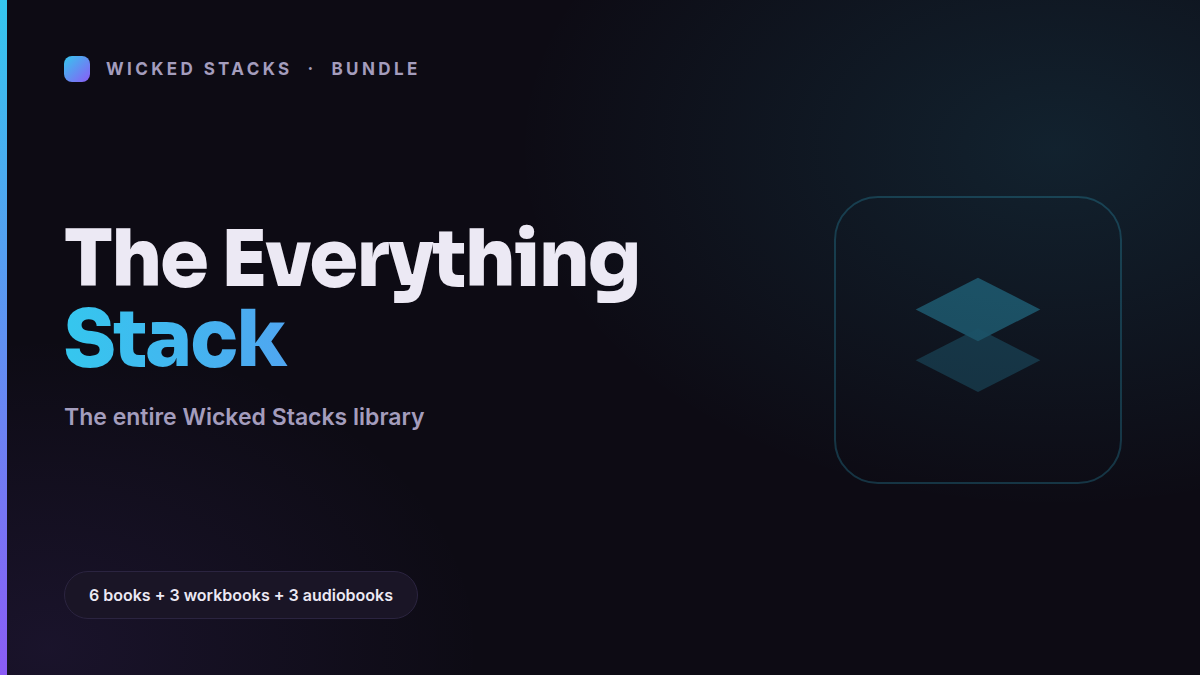
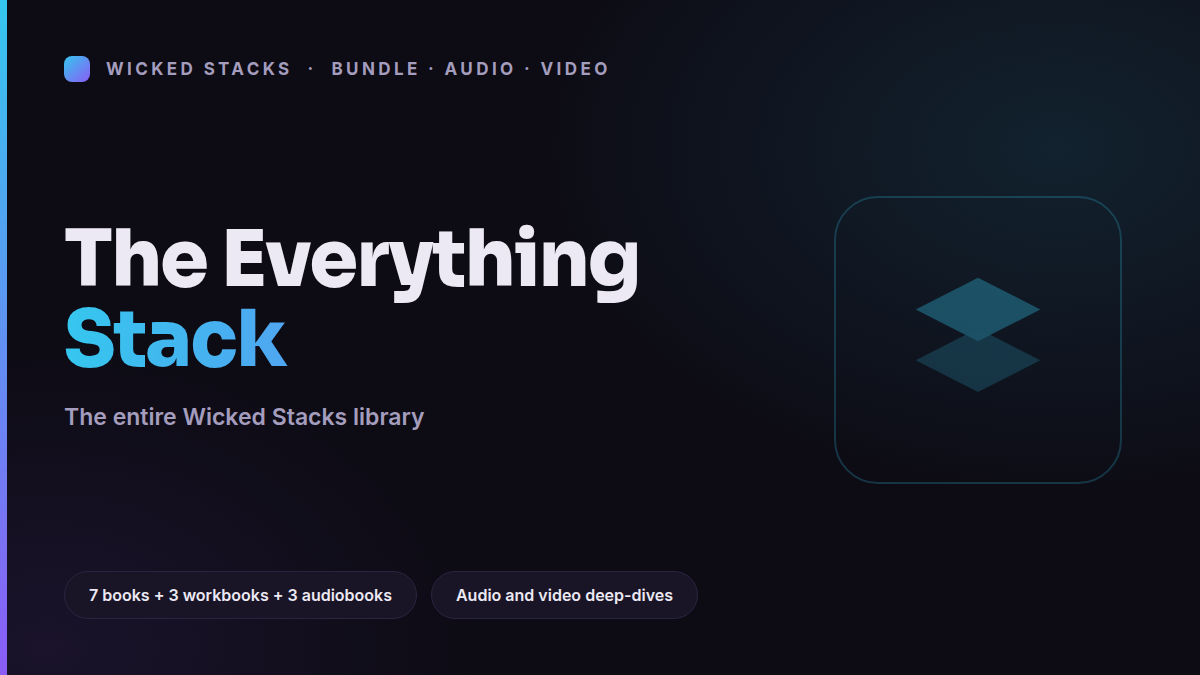
Add The Overwhelm Detox to The Everything Stack, $89 to $118
The bundle's subtitle is 'The entire Wicked Stacks library' and its blurb
says 'every book we've got'. The Overwhelm Detox was not in its includes,
so both were false.

In practice buyers were already getting it: the delivery message links the
whole Store Delivery folder, so the book has been reaching Everything
Stack customers all along. This makes the listing match what people
actually receive.

Parts now total $163, so the price moves to $118 to hold the same $45
saving the bundle has always offered.

Stripe prices are immutable, so $118 needed a new Price and Payment Link;
the $89 link is deactivated.

make-covers.mjs gains a note that playwright is intentionally not a
dependency and how to run it — it is a manual tool, not part of the build,
and the missing dependency is not obvious when it fails.

Claude-Session: https://claude.ai/code/session_01PaX3nj4vCTbovWeRq2bPbu

Changed region(s): [[0.0617, 0.8711, 0.3392, 0.9022], [0.37, 0.8711, 0.5858, 0.9022], [0.37, 0.0933, 0.5242, 0.1244]]

diff --git a/src/products.ts b/src/products.ts
@@ -512,30 +512,31 @@ export const PRODUCTS: Product[] = [
   },
   {
     slug: "everything-stack",
-    buyUrl: "https://buy.stripe.com/14A6oH3ydagXcrTdO5cQU0h",
+    buyUrl: "https://buy.stripe.com/3cI5kDecR3SzbnP5hzcQU0s",
     title: "The Everything Stack",
     subtitle: "The entire Wicked Stacks library",
     category: "stack",
     image: "/covers/everything-stack.png",
-    price: 89,
-    compareAt: 134,
-    formats: ["6 books + 3 workbooks + 3 audiobooks"],
+    price: 118,
+    compareAt: 163,
+    formats: ["7 books + 3 workbooks + 3 audiobooks", "Audio and video deep-dives"],
     badge: "The whole stack",
     includes: [
       "complete-business-mastery",
       "from-zero-to-online-income",
       "stuck-no-more",
       "the-digital-tapestry",
+      "the-overwhelm-detox",
       "pennys-piggy-bank",
       "princess-pennys-problem-solving-party",
     ],
     blurb:
       "Every book, every workbook, every audiobook we've got — one price, and future format upgrades included.",
     description: [
-      "All six titles, all companion workbooks and resource packs, all audio — three full audiobooks and CBM's bonus deep-dives included. The library keeps growing and the price climbs with it: buy once, lock it in, and every future format upgrade lands in your library free.",
+      "All seven titles, all companion workbooks and resource packs, all audio — three full audiobooks, CBM's bonus deep-dives, and The Overwhelm Detox's audio and video library included. The library keeps growing and the price climbs with it: buy once, lock it in, and every future format upgrade lands in your library free.",
     ],
     bullets: [
-      "All 4 adult titles + all 3 workbooks and resource packs",
+      "All 5 adult titles + all 3 workbooks and resource packs",
       "CBM's 4 bonus audio deep-dives included",
       "Both Penny kids' books + audiobook",
       "Future format upgrades to included titles, free",
